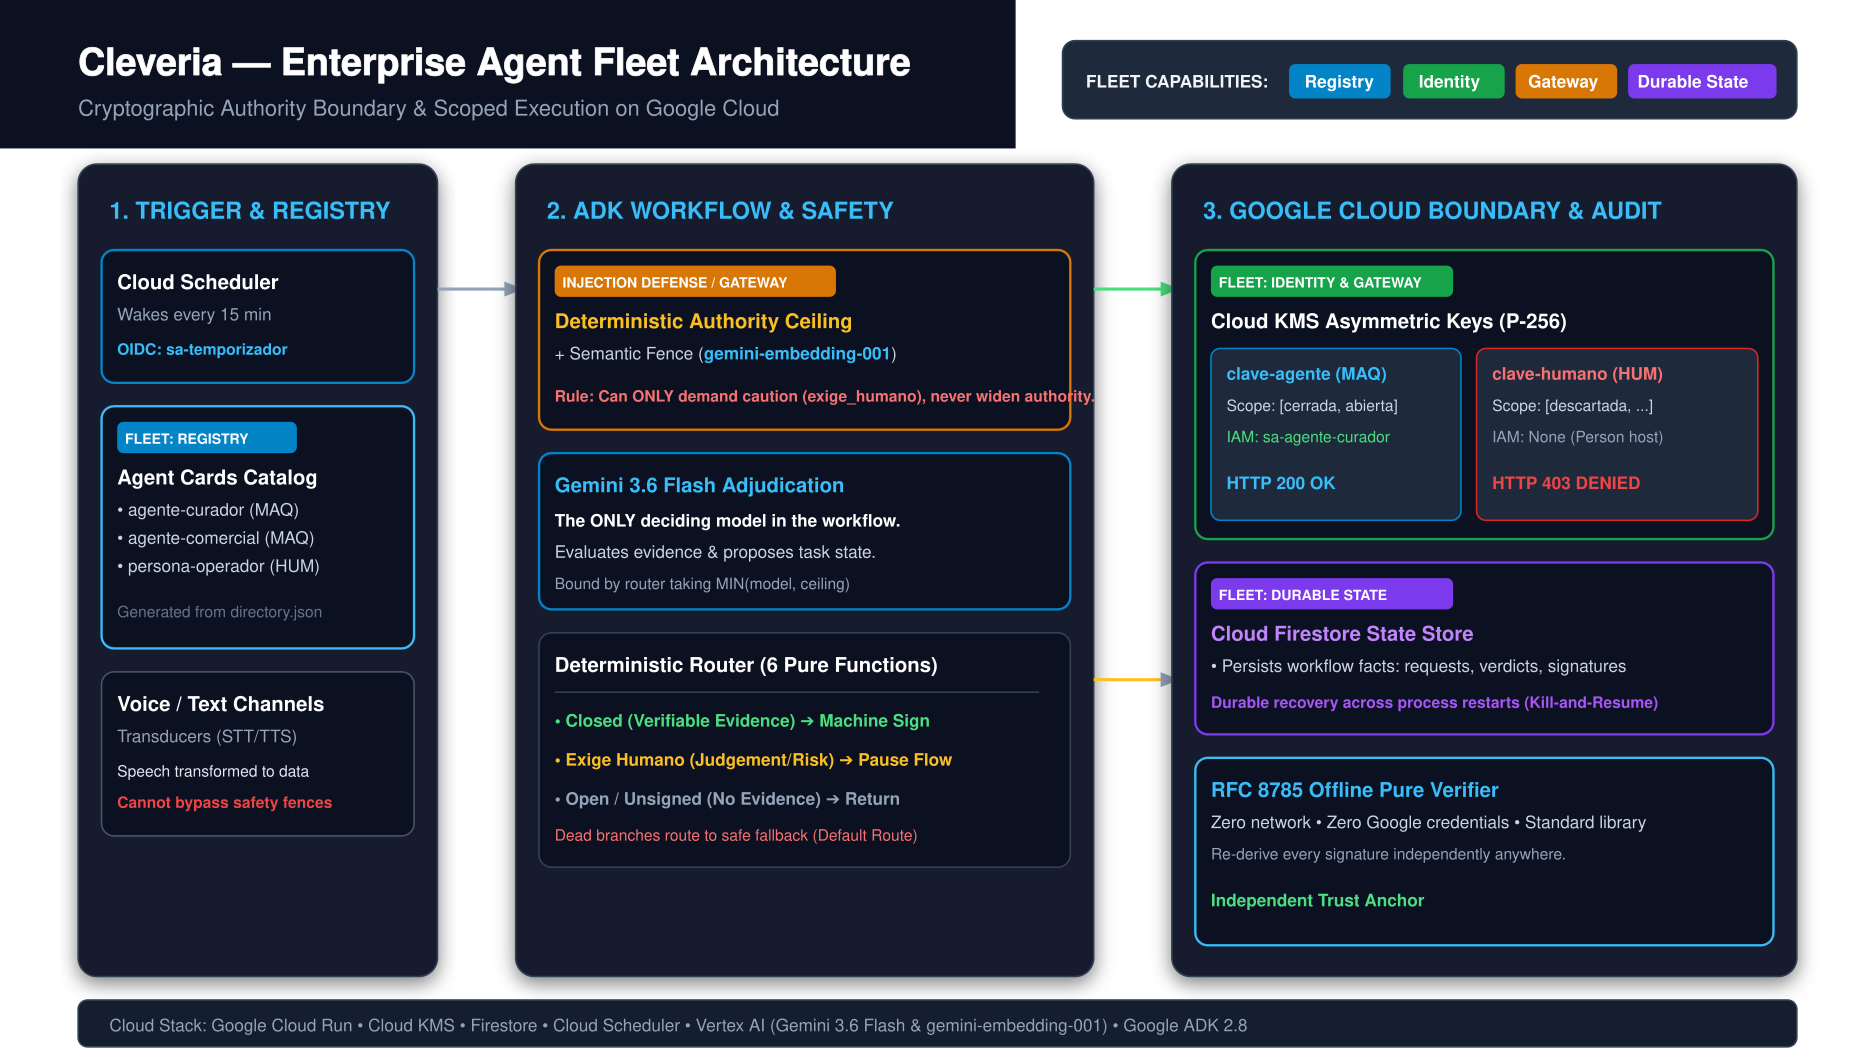
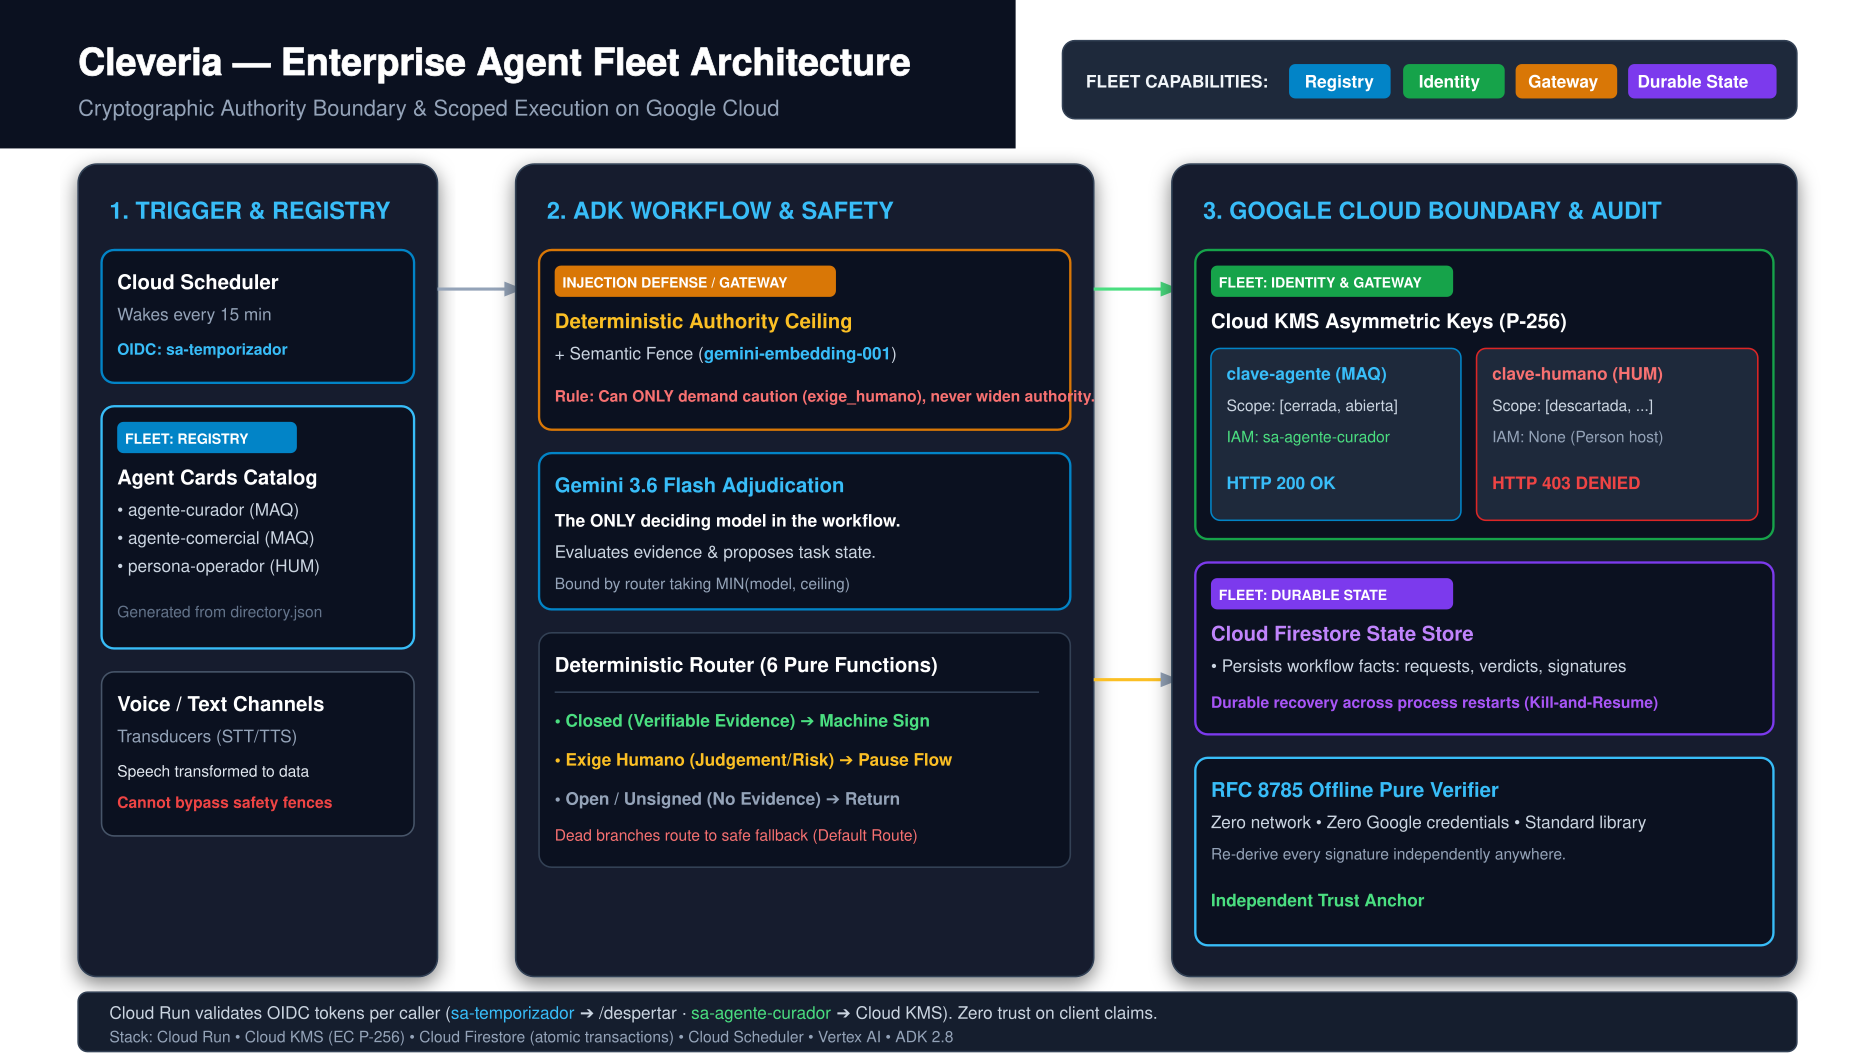
docs: integrar precisiones tecnicas en Firestore, RFC 8785, OIDC y narrativa de escala

Changed region(s): [[0.0309, 0.9322, 0.9589, 0.9944]]

diff --git a/README.en.md b/README.en.md
@@ -221,6 +221,16 @@ Over-promising is worth nothing, so it is kept separate:
 **Whoever controls `claves/directorio.json` controls who counts as human.** That is why it lives
 in the repository and not in a database: every change is in the history, with its author and date.
 
+## Concurrency & Cryptographic Integrity
+
+- **Durable State & Race Conditions**: Idempotency and race-condition immunity are guaranteed via **atomic Firestore transactions** (read-modify-write transactional batches), not in-memory locks. Reads inside transactions are strictly consistent; out-of-transaction reads follow Firestore's document model. Signatures and state transitions commit atomically.
+- **Canonical Determinism (RFC 8785)**: The verifier operates on Canonical JSON (RFC 8785) with an explicit type schema (ISO-8601 timestamps, base64 digests, strings for decimal amounts). The signature log is verifiable offline using Python's standard library and cryptography package, without vendor dependencies.
+- **Service Account Isolation**: Callers are authenticated via OIDC tokens validated by Cloud Run:
+  ```bash
+  # Verify distinct service accounts on Cloud Run services
+  gcloud run services describe candado-firma --region=us-central1 --format='value(spec.template.spec.serviceAccountName)'
+  ```
+
 ## Fleet Capabilities Coverage
 
 Following official guidance for *The Fortified Enterprise Fleet* (where first-party equivalents are accepted):

diff --git a/VIDEO_SCRIPT.en.md b/VIDEO_SCRIPT.en.md
@@ -97,11 +97,12 @@ on resource '…/cryptoKeys/clave-humano'
 
 *On screen: the Cloud Run console, the service and its URL — the required proof of Google Cloud.*
 
-> "Agent Registry. Agent identity. Cloud Run. Cloud KMS. Firestore. Model Armor. Six of the seven
-> fleet pieces, and the seventh we declare absent rather than fake.
+> "Agent Registry. Agent identity. Cloud Run. Cloud KMS. Firestore. Six fleet capabilities
+> backed by first-party implementations, and the seventh declared absent rather than faked.
 >
-> The machine does the work it can prove. The person keeps the judgement. And now that boundary is
-> arithmetic, not a promise."
+> Cleveria isn't a brake — it is the license for enterprise fleets to automate 90% of critical
+> workflows, with the mathematical guarantee that the remaining 10% stays locked behind hardware
+> and Cloud KMS."
 
 ---
 
